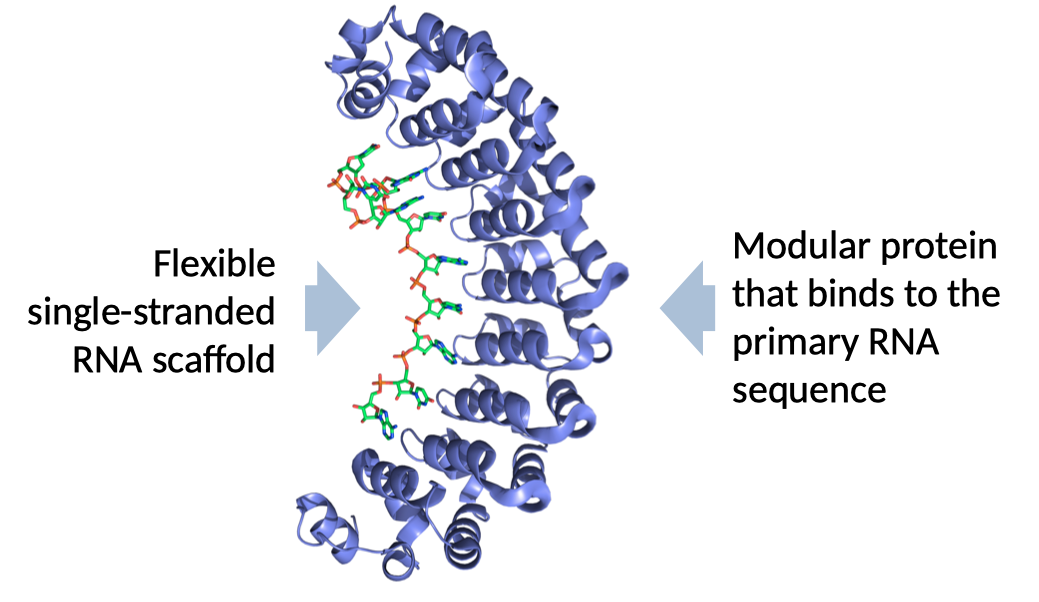
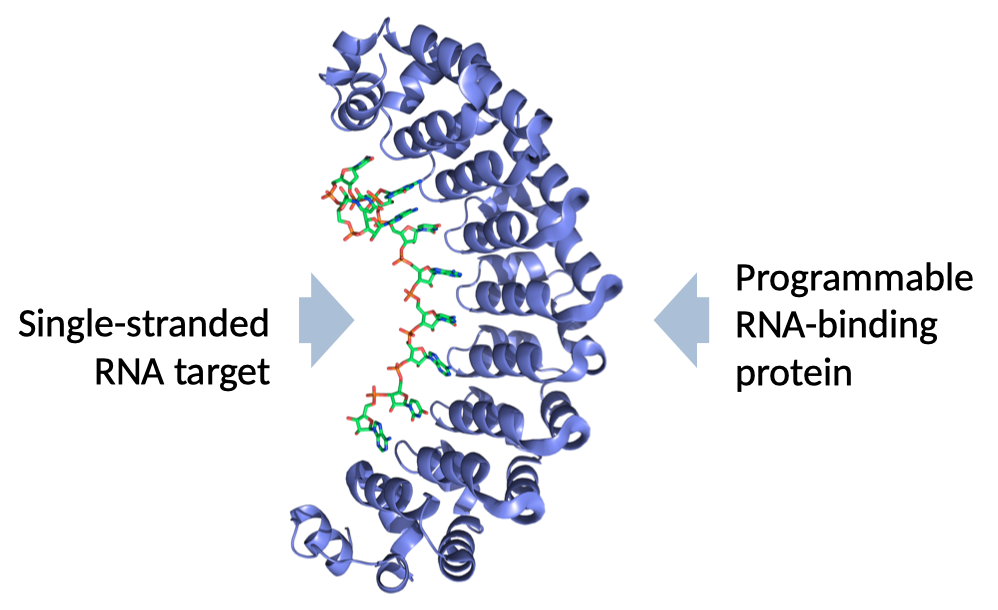
New image

Changed region(s): [[0.2796, 0.0, 0.994, 0.9867], [0.0, 0.4186, 0.3417, 0.6578]]

diff --git a/_posts/2018-11-29-programmable_RNA-binding_proteins.md b/_posts/2018-11-29-programmable_RNA-binding_proteins.md
@@ -3,13 +3,21 @@ title: Programmable RNA-binding proteins
 subtitle: A PhD Thesis Project
 image: /img/pumby1.png
 ---
-![](/img/pumby1.png)
+![](/img/pumby5.png)
 
 Much of modern bioengineering is based on tools that bind to important biomolecules and execute some useful behavior, preferably in living organisms. The most famous biotechnology of the last decade, [CRISPR](https://en.wikipedia.org/wiki/CRISPR), is based on a protein-RNA combination that can bind to (and therefore edit) specific sequences of DNA in the genome of basically anything.
 
 While most research has focused on binding to DNA, there also exists an alternative approach focused on binding to the secondary genetic messenger, Ribonucleic Acid or RNA. Pumby is a programmable protein designed to bind arbitrary sequences of RNA in living mammalian cells.
 
 While the full methods and results of this project was [published in PNAS in 2016](http://www.pnas.org/content/early/2016/04/25/1519368113), this post is dedicated solely to the rationale behind the project and the most interesting applications that we envisioned for this new technology.
+
+In 2016, PNAS published our paper about RNA-binding proteins. 
+
+A surprising chunk of biotechnology boils down to attachments. 
+
+Biotechnology is all about attaching to important molecules and doing something interesting. You can attach Green Fluorescent Protein (GFP) to anything and make it shine bright green. CRISPR can find specific bits of our DNA and make precise changes. That is how we can now correct the mistakes that cause many genetic diseases. The most powerful molecular tools are programmable. Scientists can program the same CRISPR protein to bind almost any sequence of DNA. When you have a programmable tool, you only need to design it once. If you need a new behavior, you can change the program instead of making a new tool. We created Pumby because we wanted a programmable molecule that could bind to RNA. Ribonucleic Acid (RNA) is a close cousin of DNA. The body uses RNA to make temporary copies of the instructions in DNA. Pumby is a protein that can we can program to bind almost any sequence of RNA. You can find our full methods and results in our 2016 PNAS paper. In this post, I will explain why we decided to build Pumby and how it works.
+
+
 
 # RNA as a living scaffold
 
